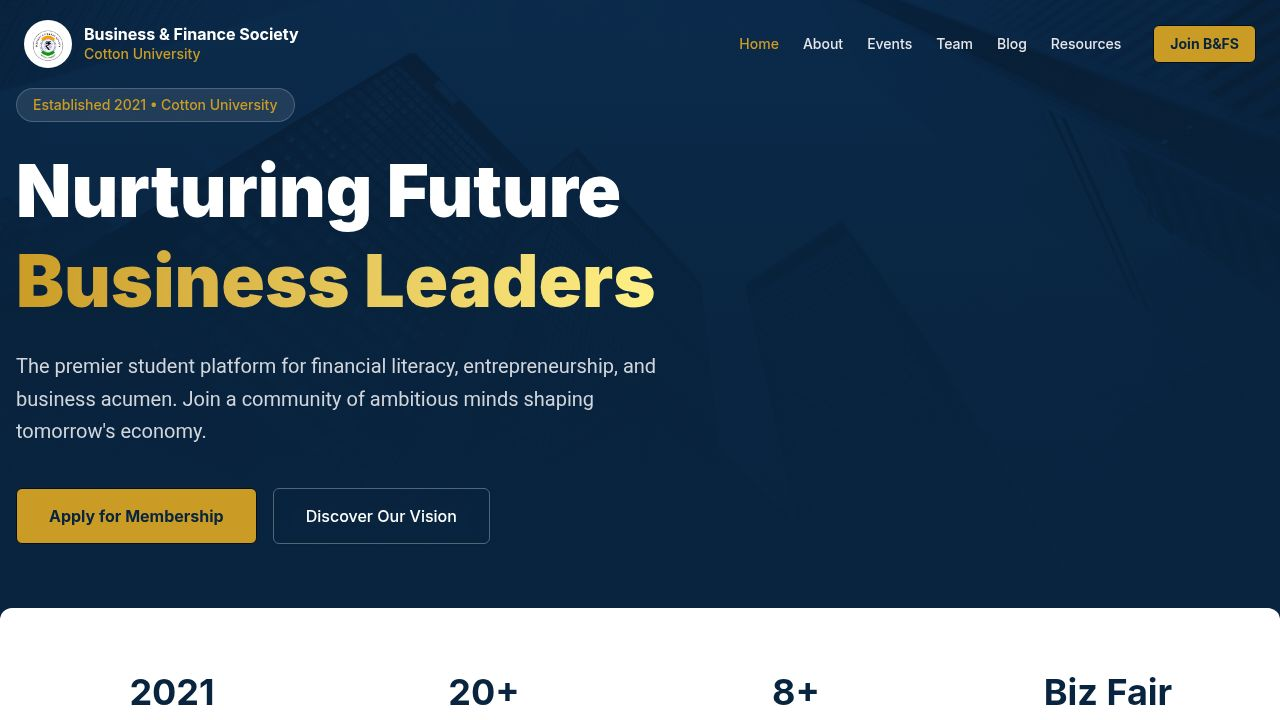
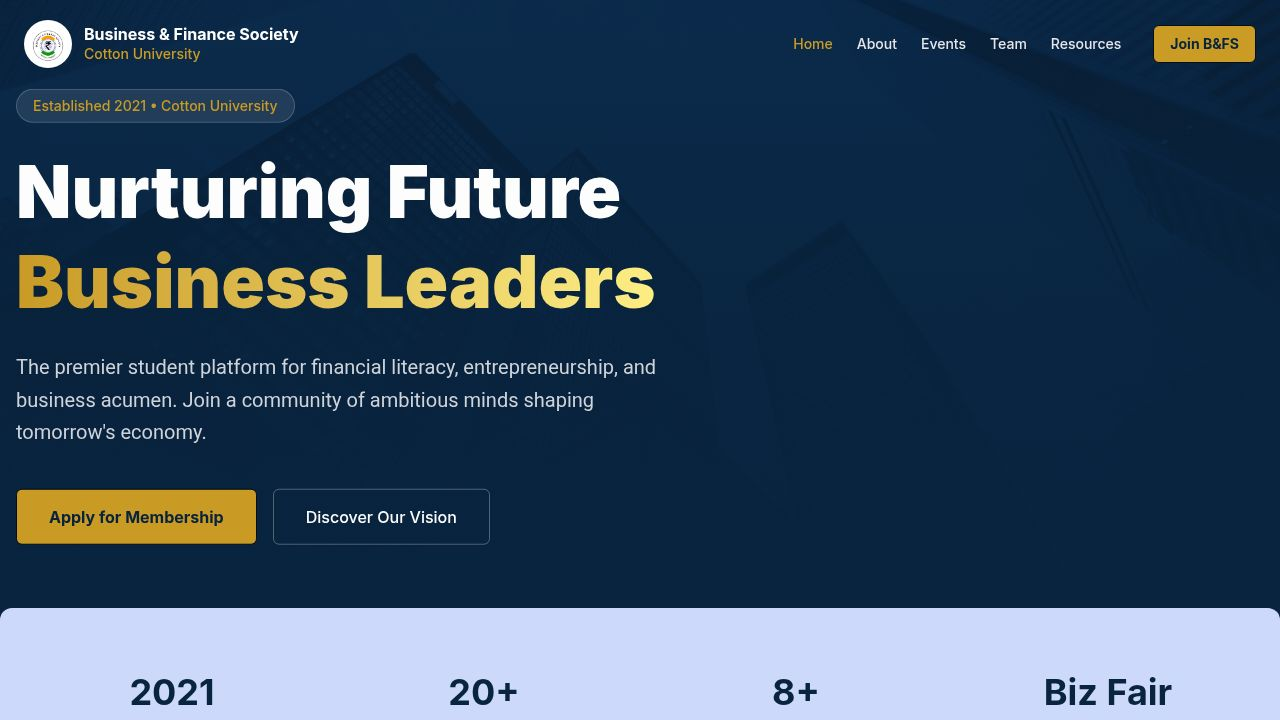
Remove the entire blog section and its associated links from the website
Removes the blog page, blog-related imports, routes, and UI elements from App.tsx, footer.tsx, navbar.tsx, and home.tsx.

Replit-Commit-Author: Agent
Replit-Commit-Session-Id: d04e856f-7f3d-46ae-9b8f-a8b58c00569c
Replit-Commit-Checkpoint-Type: full_checkpoint
Replit-Commit-Event-Id: f3fe6ed0-6948-402a-bf46-a07de1e53108
Replit-Commit-Screenshot-Url: https://storage.googleapis.com/screenshot-production-us-central1/6e26a0ee-6433-4cb6-9b24-e3eafadad108/d04e856f-7f3d-46ae-9b8f-a8b58c00569c/0d6xS8B
Replit-Helium-Checkpoint-Created: true

diff --git a/artifacts/bfs-website/src/pages/home.tsx b/artifacts/bfs-website/src/pages/home.tsx
@@ -4,21 +4,12 @@ import { ArrowRight, ChevronRight, TrendingUp, Users, Target, BookOpen, Calendar
 import { Button } from "@/components/ui/button";
 import { Badge } from "@/components/ui/badge";
 import { useEvents } from "@/lib/useEvents";
-import { blogPosts } from "@/data/blog";
 
 export default function Home() {
   const { events: allEvents } = useEvents();
 
   const upcomingEvents = allEvents.filter(e => e.status === "upcoming").slice(0, 3);
   const pastEvents = allEvents.filter(e => e.status === "past").slice(0, 3);
-  const recentPosts = blogPosts.slice(0, 3);
-
-  const categoryColors: Record<string, string> = {
-    Finance: "bg-blue-100 text-blue-800",
-    Startups: "bg-green-100 text-green-800",
-    Markets: "bg-purple-100 text-purple-800",
-    Economics: "bg-orange-100 text-orange-800",
-  };
 
   return (
     <div className="flex flex-col min-h-screen w-full">
@@ -235,53 +226,6 @@ export default function Home() {
                 </div>
               </motion.div>
             ))}
-          </div>
-        </div>
-      </section>
-      {/* FEATURED BLOG POSTS */}
-      <section className="py-24 bg-white">
-        <div className="container mx-auto px-4">
-          <div className="flex justify-between items-end mb-12">
-            <div>
-              <h2 className="text-sm font-bold text-accent tracking-widest uppercase mb-3">From Our Members</h2>
-              <h3 className="text-3xl md:text-5xl font-bold text-primary">Insights & Analysis</h3>
-            </div>
-            <Link href="/blog" className="hidden md:inline-flex items-center text-primary font-bold hover:text-accent transition-colors">
-              Read all articles <ChevronRight className="ml-1 w-5 h-5" />
-            </Link>
-          </div>
-
-          <div className="grid md:grid-cols-3 gap-8">
-            {recentPosts.map((post, i) => (
-              <motion.div
-                key={post.id}
-                initial={{ opacity: 0, y: 20 }}
-                whileInView={{ opacity: 1, y: 0 }}
-                viewport={{ once: true }}
-                transition={{ delay: i * 0.1 }}
-                className="group border border-gray-100 rounded-xl p-6 shadow-sm hover:shadow-xl transition-all duration-300 bg-white"
-              >
-                <div className="flex items-center justify-between mb-4">
-                  <span className={`text-xs font-bold px-2 py-1 rounded uppercase tracking-wider ${categoryColors[post.category] ?? "bg-gray-100 text-gray-700"}`}>
-                    {post.category}
-                  </span>
-                  <span className="text-xs text-muted-foreground">{post.date}</span>
-                </div>
-                <h4 className="text-xl font-bold text-primary mb-3 group-hover:text-accent transition-colors leading-snug">
-                  {post.title}
-                </h4>
-                <p className="text-muted-foreground text-sm mb-4 line-clamp-3">{post.excerpt}</p>
-                <Link href="/blog" className="inline-flex items-center text-sm text-primary font-semibold hover:text-accent transition-colors">
-                  Read Article <ArrowRight className="ml-1 w-4 h-4" />
-                </Link>
-              </motion.div>
-            ))}
-          </div>
-
-          <div className="mt-8 text-center md:hidden">
-            <Link href="/blog">
-              <Button variant="outline" className="w-full">Read All Articles</Button>
-            </Link>
           </div>
         </div>
       </section>

diff --git a/artifacts/bfs-website/src/App.tsx b/artifacts/bfs-website/src/App.tsx
@@ -11,7 +11,6 @@ import Home from "@/pages/home";
 import About from "@/pages/about";
 import Events from "@/pages/events";
 import Team from "@/pages/team";
-import Blog from "@/pages/blog";
 import Resources from "@/pages/resources";
 import Join from "@/pages/join";
 import Admin from "@/pages/admin";
@@ -28,7 +27,6 @@ function PublicLayout() {
           <Route path="/about" component={About} />
           <Route path="/events" component={Events} />
           <Route path="/team" component={Team} />
-          <Route path="/blog" component={Blog} />
           <Route path="/resources" component={Resources} />
           <Route path="/join" component={Join} />
           <Route component={NotFound} />

diff --git a/artifacts/bfs-website/src/components/layout/footer.tsx b/artifacts/bfs-website/src/components/layout/footer.tsx
@@ -32,9 +32,6 @@ export function Footer() {
                 <Link href="/team" className="text-sm text-gray-300 hover:text-accent transition-colors">Our Team</Link>
               </li>
               <li>
-                <Link href="/blog" className="text-sm text-gray-300 hover:text-accent transition-colors">Insights Blog</Link>
-              </li>
-              <li>
                 <Link href="/resources" className="text-sm text-gray-300 hover:text-accent transition-colors">Resources</Link>
               </li>
             </ul>

diff --git a/artifacts/bfs-website/src/components/layout/navbar.tsx b/artifacts/bfs-website/src/components/layout/navbar.tsx
@@ -26,7 +26,6 @@ export function Navbar() {
     { href: "/about", label: "About" },
     { href: "/events", label: "Events" },
     { href: "/team", label: "Team" },
-    { href: "/blog", label: "Blog" },
     { href: "/resources", label: "Resources" },
   ];
 
